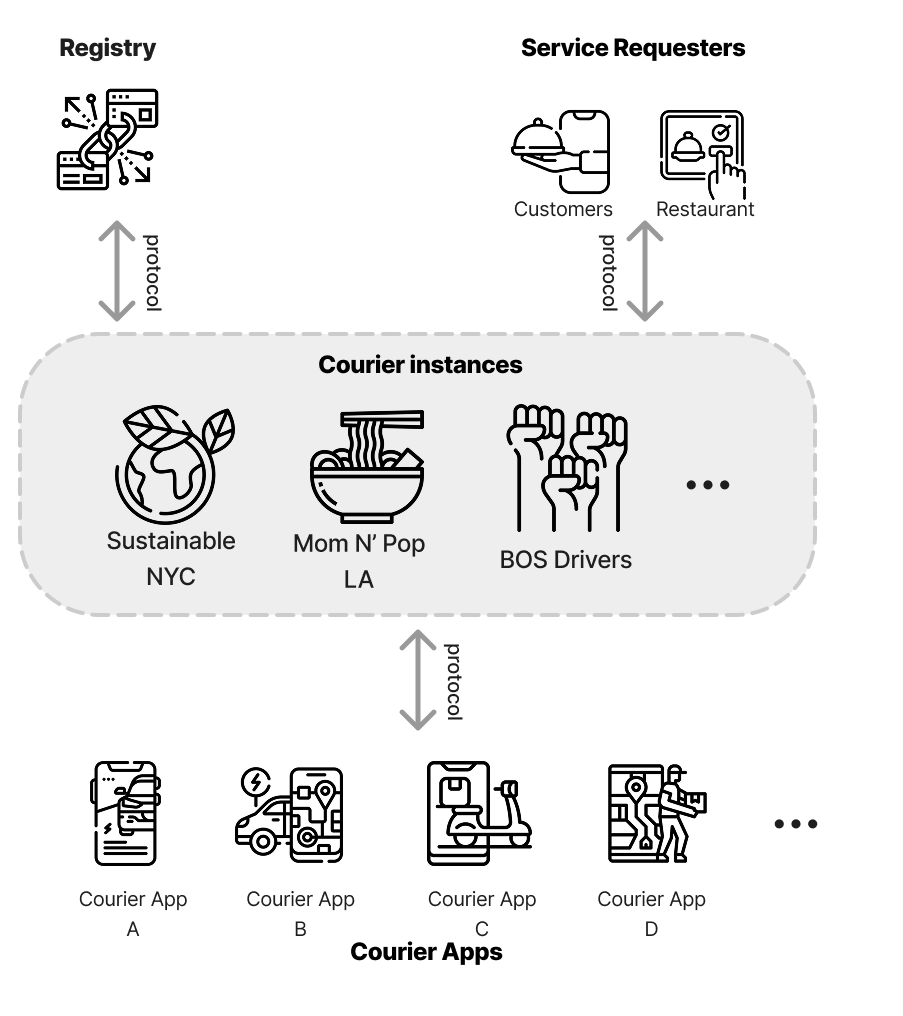
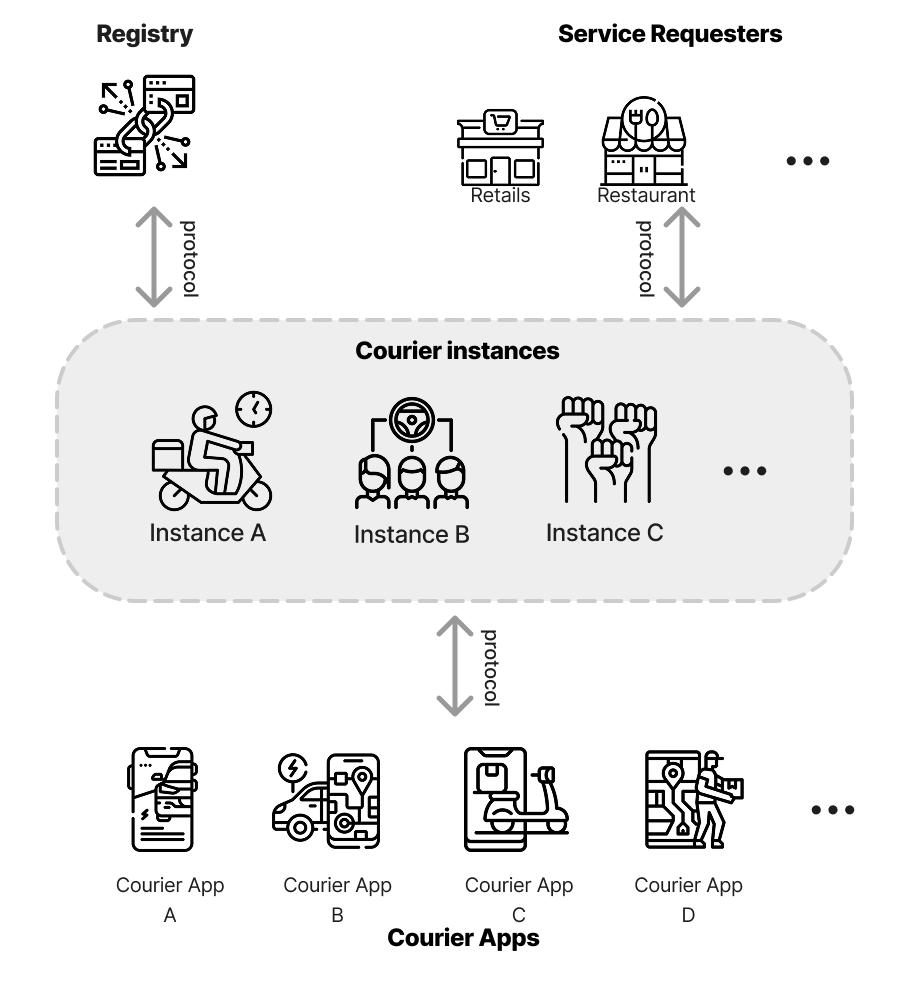
updated diagram and framing

diff --git a/index.html b/index.html
@@ -3,9 +3,9 @@
 
 <head>
     <title>OpenCourier</title>
-    <meta name="description" content="The food delivery alternative, empowering communities." />
+    <meta name="description" content="The delivery alternative, empowering communities." />
     <meta property="og:title" content="Open Courier" />
-    <meta property="og:description" content="The food delivery alternative, empowering communities." />
+    <meta property="og:description" content="The delivery alternative, empowering communities." />
     <meta name="viewport" content="width=device-width, initial-scale=1.0" />
     <meta charset="utf-8" />
     <meta property="twitter:card" content="summary_large_image" />
@@ -220,7 +220,7 @@
                         Enabling Decentralized, Community-Owned Delivery Services
                     </h1>
                     <span class="home-description">
-                        Can you imagine a future where food delivery isn’t controlled by single profit-driven platforms,
+                        Can you imagine a future where delivery isn’t controlled by single profit-driven platforms,
                         but powered
                         by an ecosystem composed of community-owned platforms? In this ecosystem, workers gain agency,
                         data become
@@ -257,11 +257,11 @@
                 <span class="home-text20">About</span>
                 <div>
                     <span class="home-description">
-                        Open Courier is building a new kind of food delivery ecosystem to counter the key problems
+                        Open Courier is building a new kind of delivery ecosystem to counter the key problems
                         nowadays:
                         unfair power dynamics between the platform and the workers, lack of transparency with algorithms
                         that make decisions behind closed doors and infrastructural designs that don’t reflect workers'
-                        values or community needs . We envision a decentralized ecosystem of community-owned food
+                        values or community needs . We envision a decentralized ecosystem of community-owned 
                         delivery
                         platforms that: <br>
                     </span>
@@ -300,8 +300,7 @@
                 <div>
                     <span class="home-description">
                         The Open Courier protocol defines three core layers of communication within the ecosystem:
-                        between the mobile app and instances, between instances and service requesters, and the
-                        governance of the instance registry.
+                        between the mobile app and instances, between instances and the ecosystem, and the instance registry.
                         <br>
                         <a href="https://dl.acm.org/doi/abs/10.1145/3637369" target="_blank" class="paper-link">
                             Read more about the protocol here 📄
